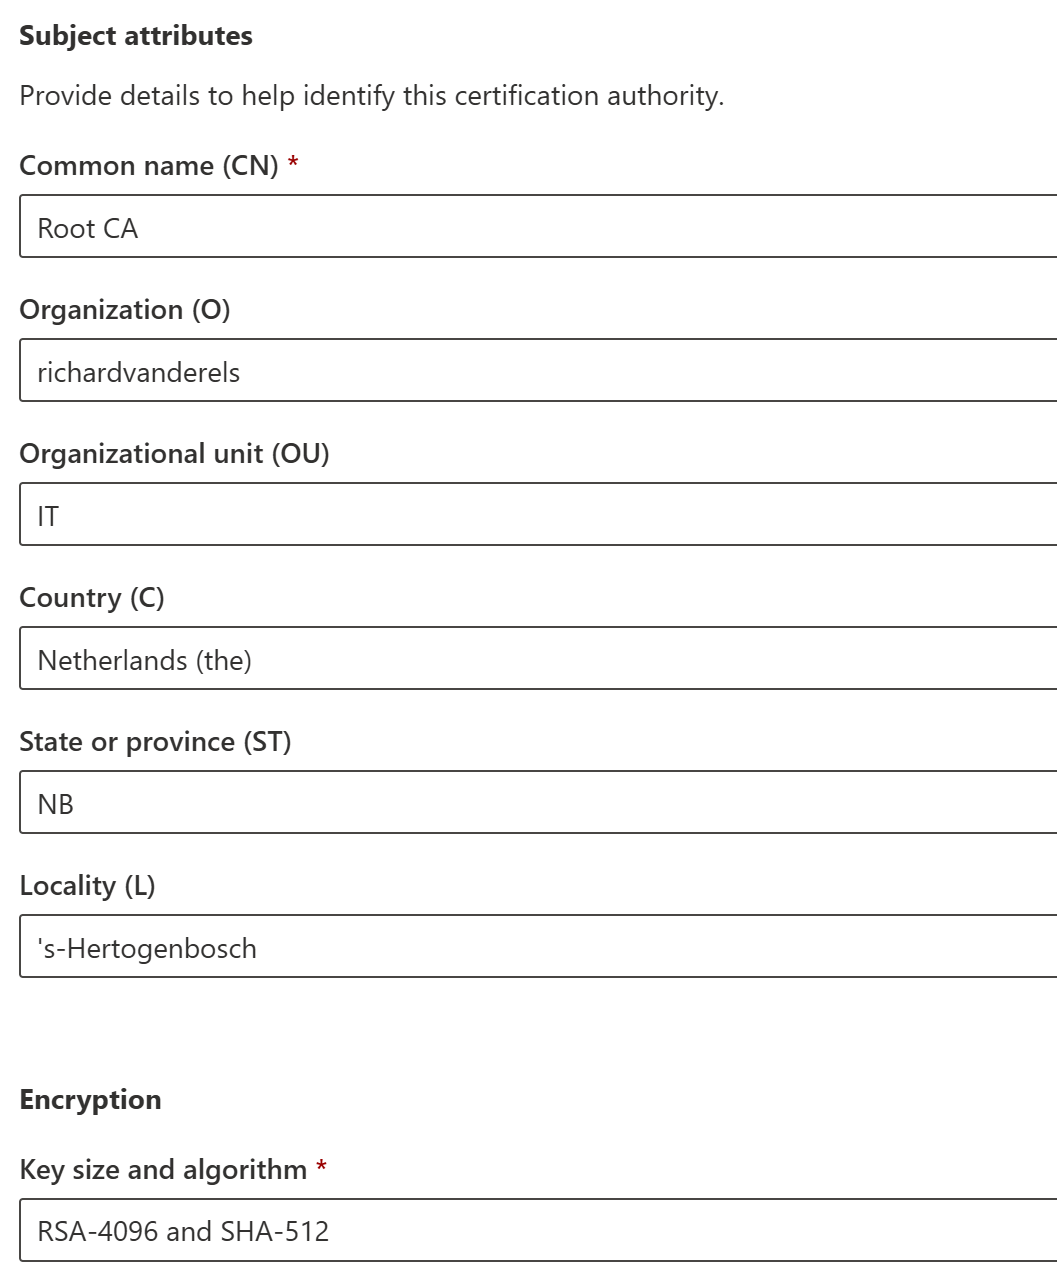
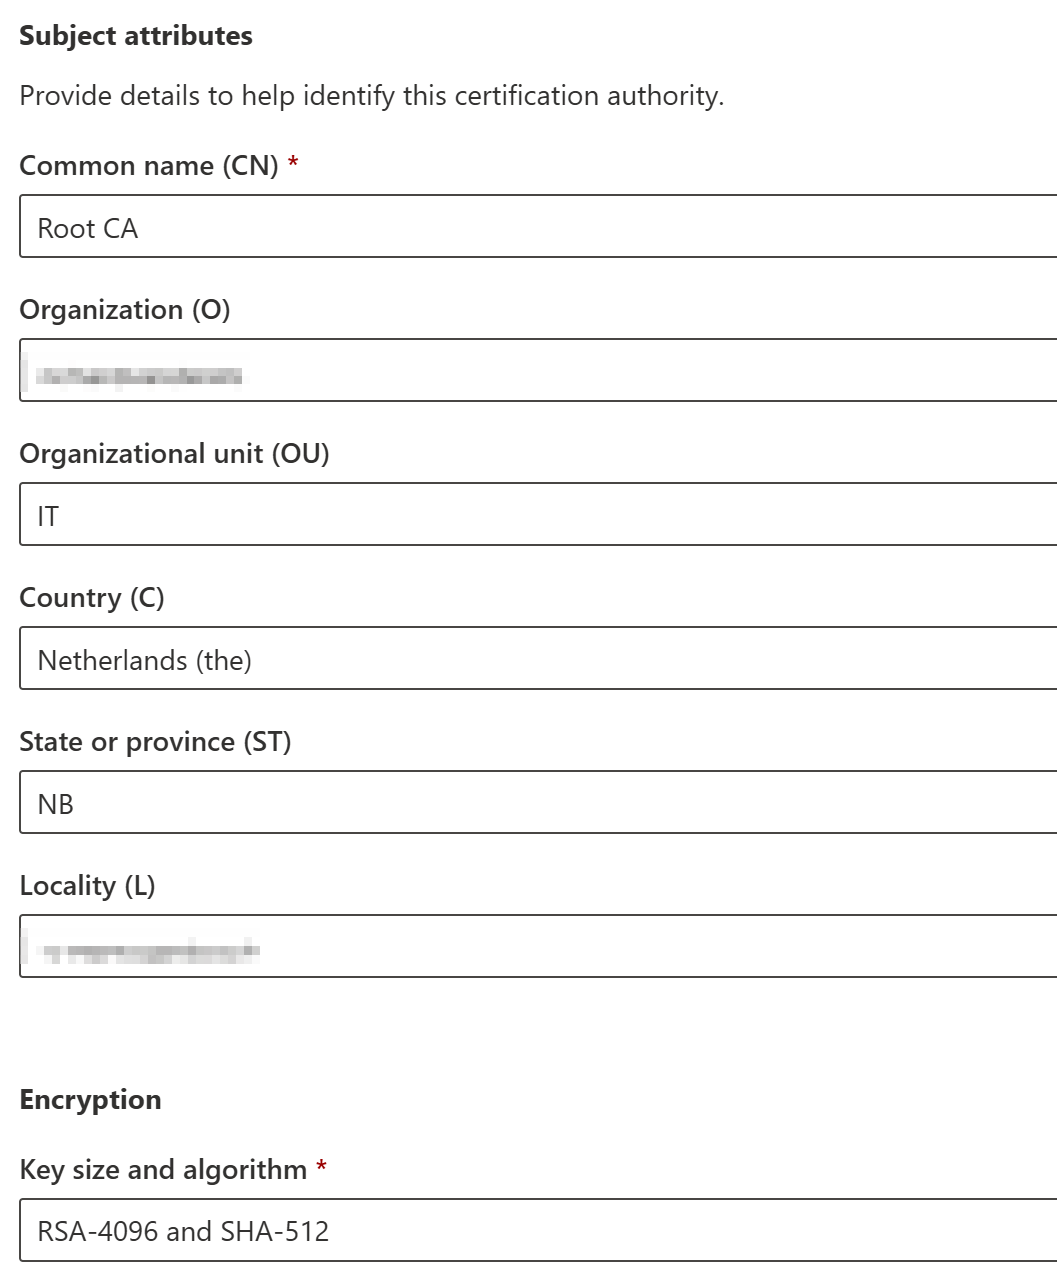
Fix typos in the Cloud PKI posts and redact organization and city in screenshots

Changed region(s): [[0.0, 0.7364, 0.2498, 0.7671], [0.0, 0.2762, 0.2498, 0.3068]]

diff --git a/_posts/2026-11-16-certificate-based-authentication-cloud-pki.md b/_posts/2026-11-16-certificate-based-authentication-cloud-pki.md
@@ -1,22 +1,22 @@
 ---
 layout: post
-title: "Certificated-based Authentication"
+title: "Certificate-based Authentication"
 date: 2026-11-16 09:20:00 +0100
 categories: [Entra, Security]
 tags: [Entra ID, Certificate-based authentication, Cloud PKI, Conditional Access]
-description: "In this next blog we will even go even further, and we will setup Certificated-based Authentication by the certificate distribution by your Cloud PKI."
+description: "In this next blog we will even go even further, and we will set up Certificate-based Authentication by the certificate distribution by your Cloud PKI."
 ---
 
 {% assign img = '/assets/images/certificate-based-authentication-cloud-pki/' %}
 
-In this next blog we will even go even further, and we will setup Certificated-based Authentication by the certificate distribution by your Cloud PKI.
+In this next blog we will even go even further, and we will set up Certificate-based Authentication by the certificate distribution by your Cloud PKI.
 
 In our second blog we’ve already downloaded the Root CA and Issuing CA. We will need that in the upcoming steps.
 
-Some of the key benefits of Certificated-based Authentication is that is a phishing resistant MFA authentication method and it protects the accounts to work seamlessly with Entra ID Conditional Access policies.
+Some of the key benefits of Certificate-based Authentication is that is a phishing resistant MFA authentication method and it protects the accounts to work seamlessly with Entra ID Conditional Access policies.
 
 <figure>
-  <img src="{{ img | append: '01-image1.png' | relative_url }}" alt="Some of the key benefits of Certificated-based Authentication is that is a phishing resistant MFA authentication method and it protects t...">
+  <img src="{{ img | append: '01-image1.png' | relative_url }}" alt="Some of the key benefits of Certificate-based Authentication is that is a phishing resistant MFA authentication method and it protects t...">
 </figure>
 
 Login to your Entra Admin portal [https://entra.microsoft.com/](https://entra.microsoft.com/)
@@ -149,10 +149,10 @@ You will now see the available certificates. Because you set the option Issuer H
   <img src="{{ img | append: '20-image20.png' | relative_url }}" alt="You will now see the available certificates. Because you set the option Issuer Hint you will only see valid options. Select your Certific...">
 </figure>
 
-When your certificate will be granted you will see. A request to stay signed in? If this is still configured in your tentant.
+When your certificate will be granted you will see. A request to stay signed in? If this is still configured in your tenant.
 
 <figure>
-  <img src="{{ img | append: '21-image21.png' | relative_url }}" alt="When your certificate will be granted you will see. A request to stay signed in? If this is still configured in your tentant.">
+  <img src="{{ img | append: '21-image21.png' | relative_url }}" alt="When your certificate will be granted you will see. A request to stay signed in? If this is still configured in your tenant.">
 </figure>
 
 Check the sign-in logs of the user to see that the user is certificate-based authenticated.
@@ -176,4 +176,5 @@ In the Authentication methods of your user, you can also see the System preferre
 <figure>
   <img src="{{ img | append: '24-image24.png' | relative_url }}" alt="In the Authentication methods of your user, you can also see the System preferred multifactor authentication method.">
 </figure>
+
 

diff --git a/_posts/2026-11-16-setup-cloud-pki-in-intune.md b/_posts/2026-11-16-setup-cloud-pki-in-intune.md
@@ -4,12 +4,12 @@ title: "Setup Cloud PKI in Intune"
 date: 2026-11-16 09:00:00 +0100
 categories: [Intune, Security]
 tags: [Intune, Cloud PKI, PKI, Security]
-description: "In this blog I will explain how to setup Cloud PKI in Intune step-by-step."
+description: "In this blog I will explain how to set up Cloud PKI in Intune step-by-step."
 ---
 
 {% assign img = '/assets/images/setup-cloud-pki-in-intune/' %}
 
-In this blog I will explain how to setup Cloud PKI in Intune step-by-step. I certainly will not be the first one who will write about this. But now that Microsoft is adding this feature to your E5 license it’s a good idea to get a look into this.
+In this blog I will explain how to set up Cloud PKI in Intune step-by-step. I certainly will not be the first one who will write about this. But now that Microsoft is adding this feature to your E5 license it’s a good idea to get a look into this.
 
 See this blog post from Microsoft about the additions to licenses:
 
@@ -19,7 +19,7 @@ See this blog post from Microsoft about the additions to licenses:
   <img src="{{ img | append: '01-image1.png' | relative_url }}" alt="Advancing Microsoft 365: New capabilities and pricing update | Microsoft 365 Blog">
 </figure>
 
-Cloud PKI is a great way to make use of PKI without having to setup a complete infrastructure. It’s a PKI infrastructure in the cloud. And there is no need to maintain (on-premises) servers.
+Cloud PKI is a great way to make use of PKI without having to set up a complete infrastructure. It’s a PKI infrastructure in the cloud. And there is no need to maintain (on-premises) servers.
 
 But keep in mind that this solution will only work for Intune managed devices.
 
@@ -109,7 +109,9 @@ Your Root CA en Issuing CA are now created and Active.
   <img src="{{ img | append: '14-image14.png' | relative_url }}" alt="Your Root CA en Issuing CA are now created and Active.">
 </figure>
 
-You have now successfully setup your Cloud PKI environment within minutes.
+You have now successfully set up your Cloud PKI environment within minutes.
 
 You can use these certificates to distribute certificates to your users and clients. In the upcoming blog posts I will show you how to distribute certificates and where you can use them for.
+
+
 

diff --git a/_posts/2026-11-16-distribute-cloud-pki-certificates.md b/_posts/2026-11-16-distribute-cloud-pki-certificates.md
@@ -31,10 +31,10 @@ Select your Issuing CA and go to Properties to copy the SCEP URI and Download th
 
 ## Create Intune policies
 
-Let’s headover to Device – Configuration
+Let’s head over to Device – Configuration
 
 <figure>
-  <img src="{{ img | append: '03-image3.png' | relative_url }}" alt="Let’s headover to Device – Configuration">
+  <img src="{{ img | append: '03-image3.png' | relative_url }}" alt="Let’s head over to Device – Configuration">
 </figure>
 
 Click Create – New Policy
@@ -99,9 +99,9 @@ Provide the basics.
   <img src="{{ img | append: '12-image12.png' | relative_url }}" alt="Provide the basics.">
 </figure>
 
-You can now choose between a User or Device certificate. We will first create the User Certificate type. This user certificate will be useful for things like Wi-Fi, VPN or Certificated-based Authentication.
+You can now choose between a User or Device certificate. We will first create the User Certificate type. This user certificate will be useful for things like Wi-Fi, VPN or Certificate-based Authentication.
 
-Select the Key Storage Provider (KSP), select the Key usage, we will select both Digital signature and Key encipherment, select your Key Size be aware that only Software KSP can be used with a 4096 key size and select the Hash alogorithm.
+Select the Key Storage Provider (KSP), select the Key usage, we will select both Digital signature and Key encipherment, select your Key Size be aware that only Software KSP can be used with a 4096 key size and select the Hash algorithm.
 
 <figure>
   <img src="{{ img | append: '13-image13.png' | relative_url }}" alt="Select the Key Storage Provider (KSP), select the Key usage, we will select both Digital signature and Key encipherment, select your Key ...">
@@ -202,4 +202,5 @@ And Issuing CA created with the Trusted Certificate Configuration Profiles.
 <figure>
   <img src="{{ img | append: '26-image25.png' | relative_url }}" alt="And Issuing CA created with the Trusted Certificate Configuration Profiles.">
 </figure>
+
 
